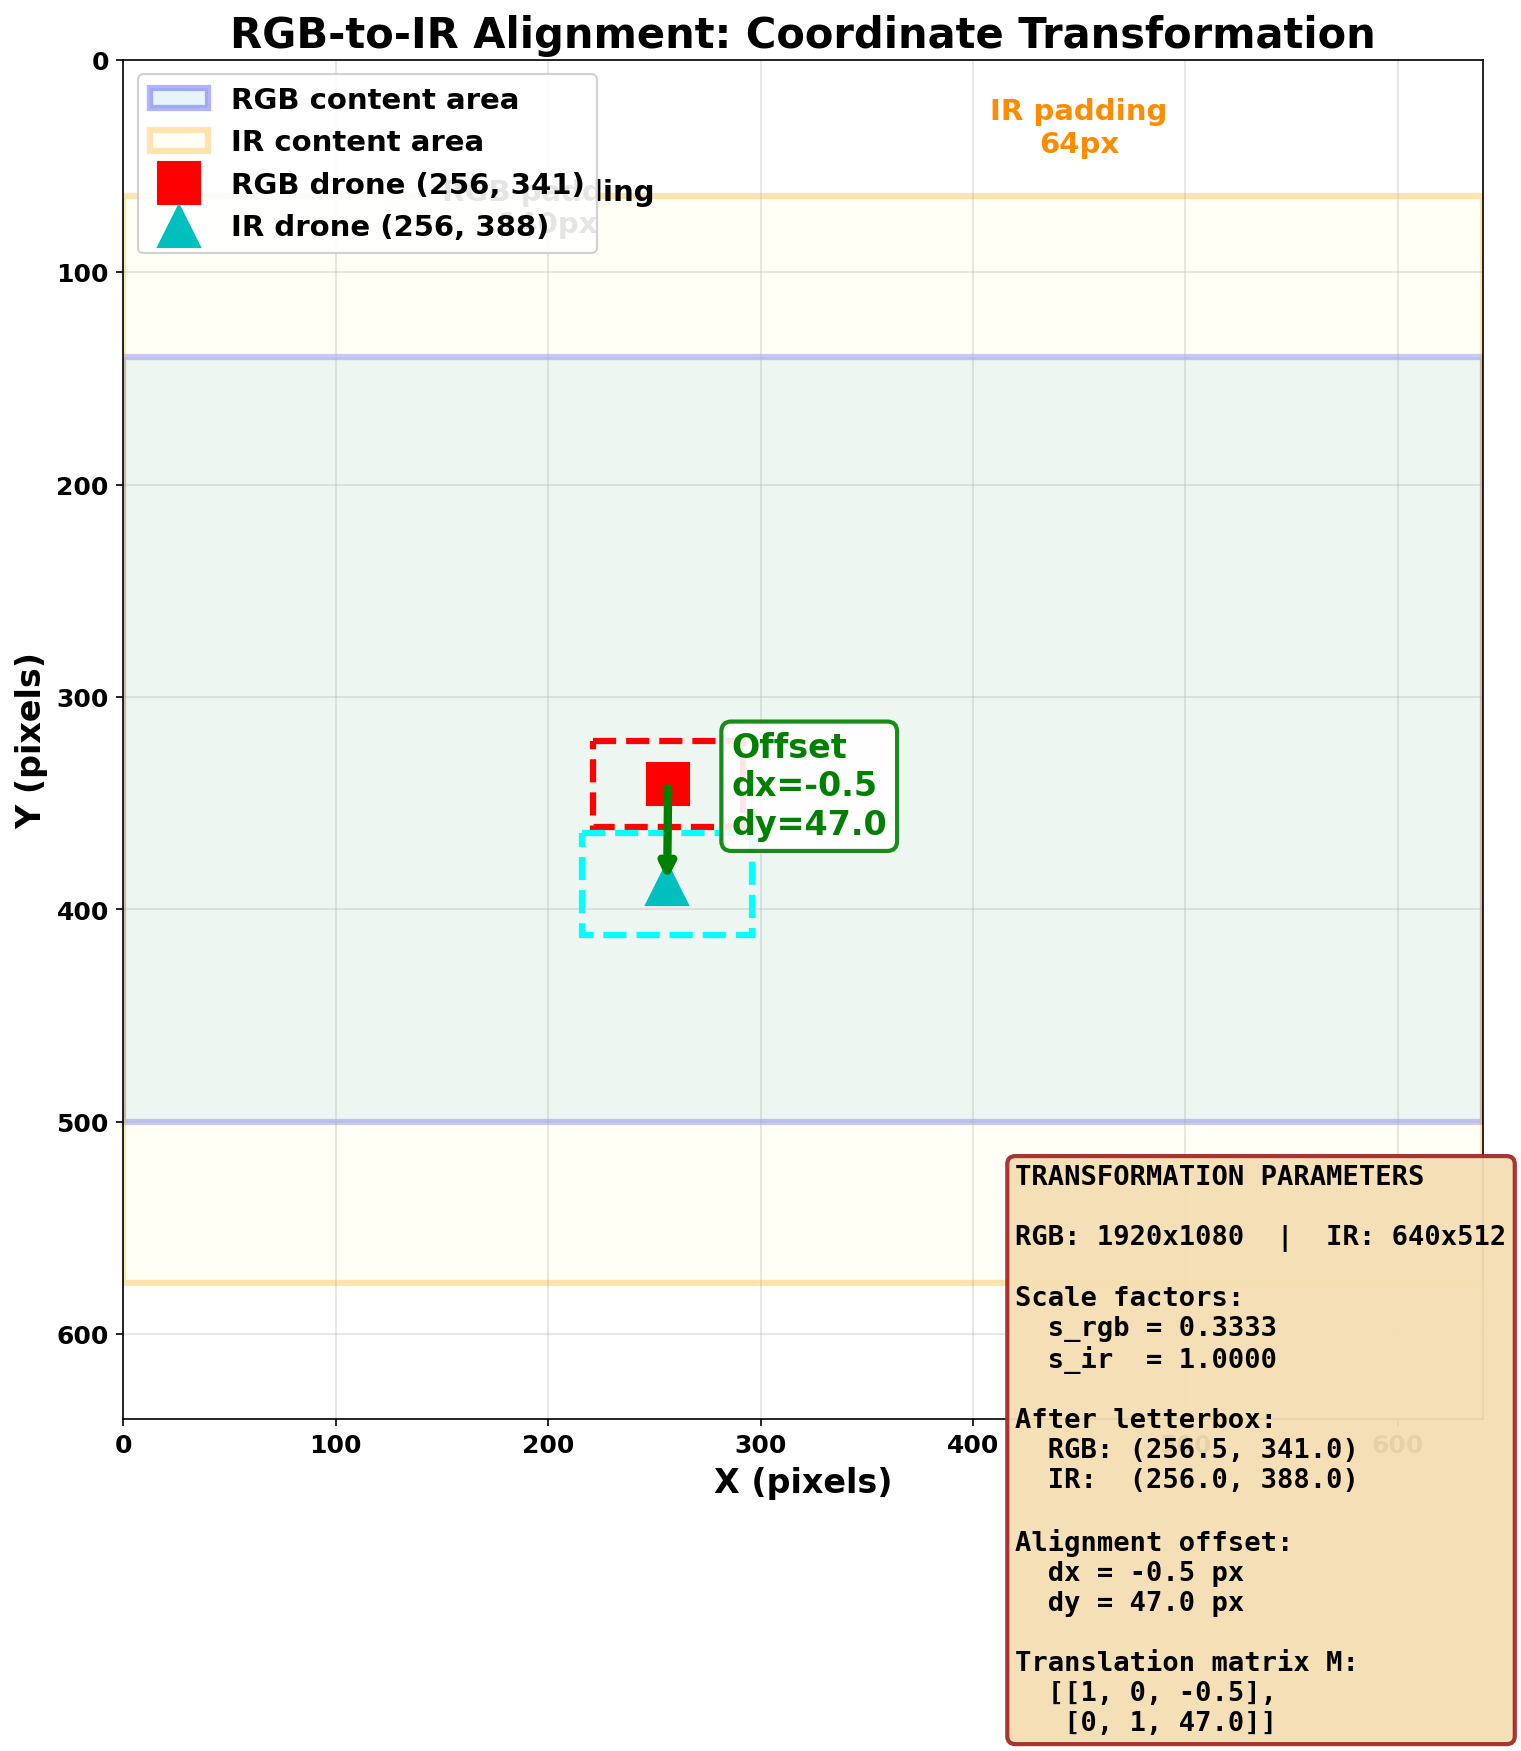
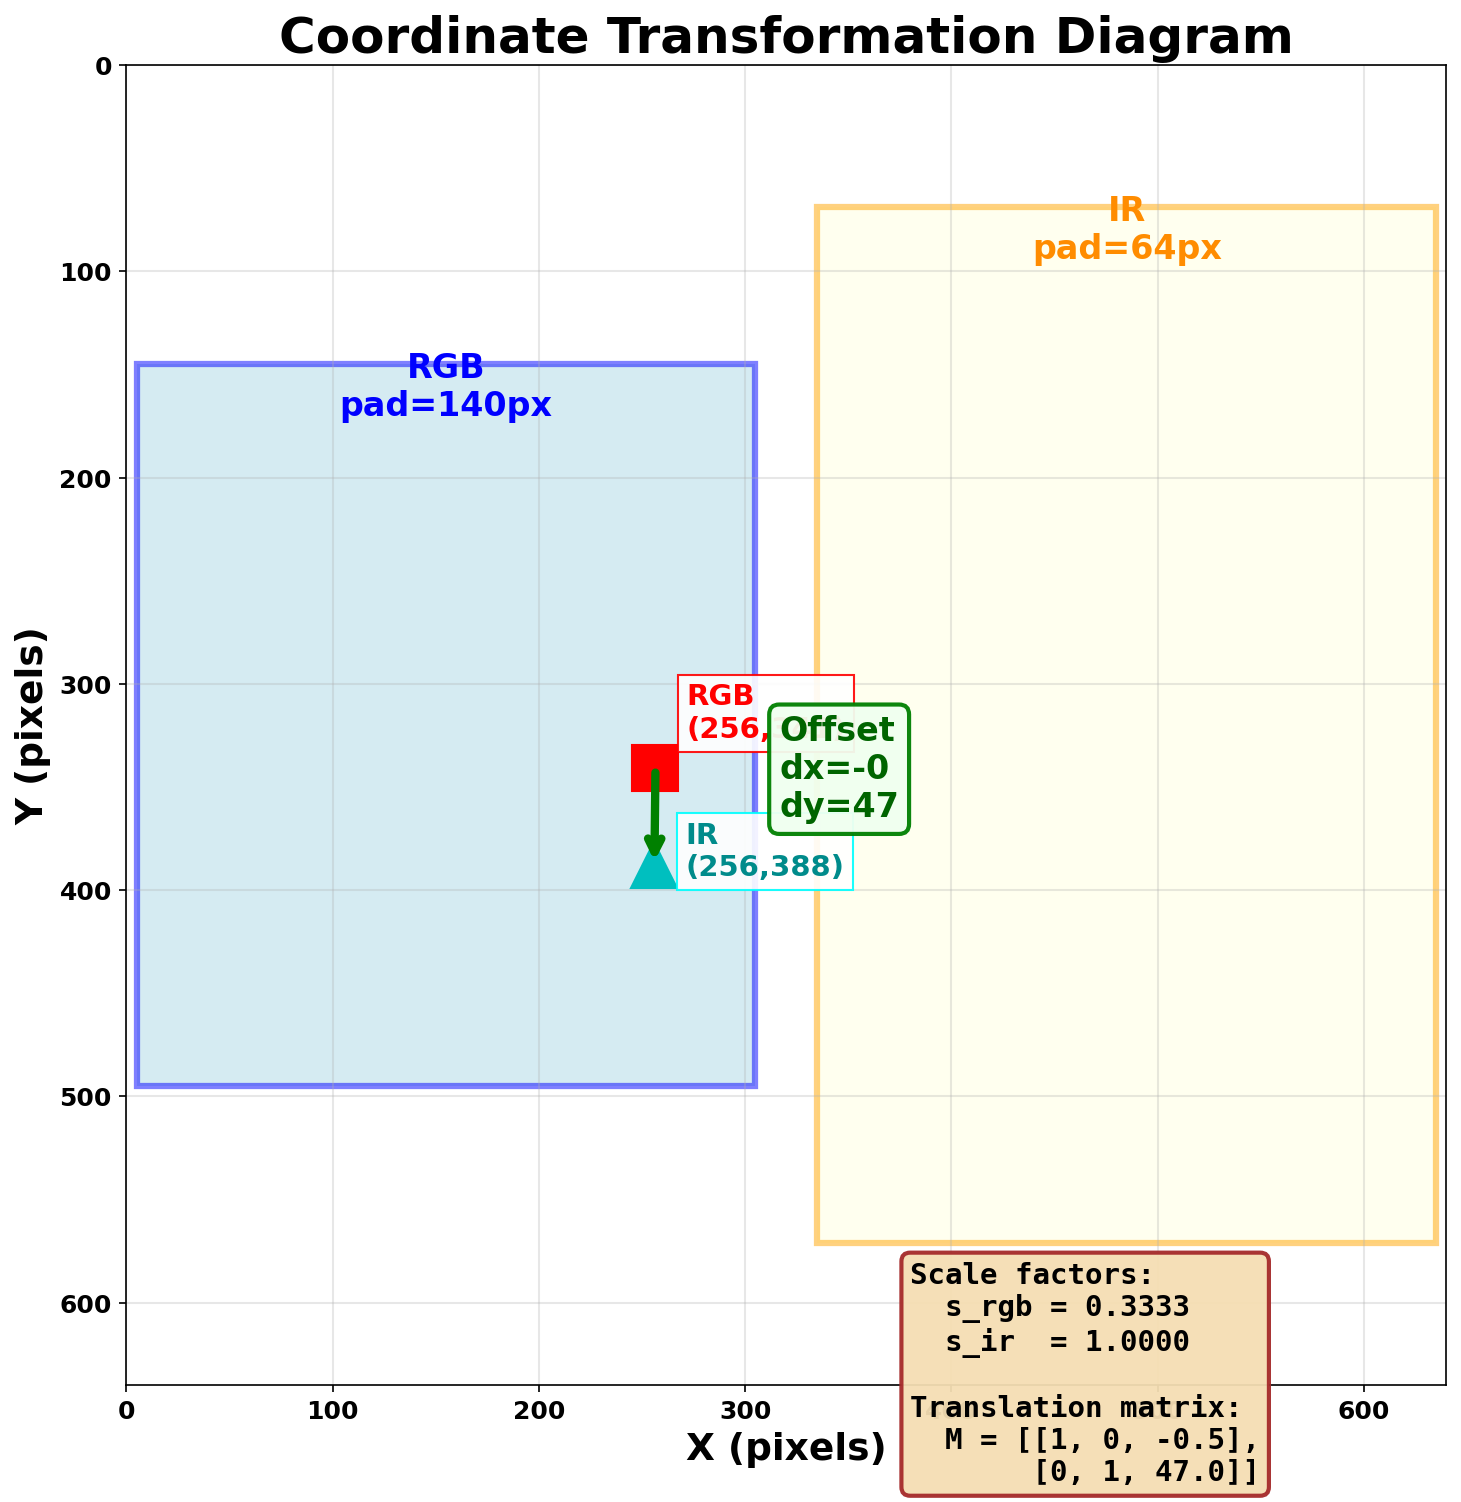
Fix text overlaps, separate before/after images, larger fonts

diff --git a/PREPROCESSING_METHODOLOGY.md b/PREPROCESSING_METHODOLOGY.md
@@ -77,38 +77,21 @@ After translation, the RGB drone position matches the IR position exactly, enabl
 
 ## 4. Visual Comparison
 
-### 4.1 Before vs After Alignment
+### 4.1 Before: Standard Letterbox (Misaligned)
 
-![Before/After Alignment](docs/preprocessing_figures/alignment_before_after.png)
+![Before Alignment](docs/preprocessing_figures/alignment_BEFORE.png)
 
-### 4.2 Misalignment Overlay
+### 4.2 After: RGB-to-IR Alignment (Unified)
+
+![After Alignment](docs/preprocessing_figures/alignment_AFTER.png)
+
+### 4.3 Misalignment Overlay
 
 ![Alignment Overlay](docs/preprocessing_figures/alignment_overlay.png)
 
-### 4.3 Coordinate Transformation
+### 4.4 Coordinate Transformation
 
 ![Math Diagram](docs/preprocessing_figures/alignment_math_diagram.png)
-
-### 4.4 Sample Visualizations
-
-**Sample 1:**
-
-![Alignment Visualization Sample 1](docs/preprocessing_figures/alignment_sample_1_20190925_101846_1_1_0.png)
-
-**Sample 2:**
-
-![Alignment Visualization Sample 2](docs/preprocessing_figures/alignment_sample_2_20190925_101846_1_1_1.png)
-
-| Panel | Description |
-|-------|-------------|
-| Row 1, Left | Original RGB with ground truth |
-| Row 1, Middle-Left | Original IR with ground truth |
-| Row 1, Middle-Right | RGB after letterbox (red marker) |
-| Row 1, Right | IR after letterbox (cyan marker) |
-| Row 2, Left | Misalignment overlay (~47px offset) |
-| Row 2, Middle | RGB after alignment (green marker) |
-| Row 2, Middle-Right | IR resized (green marker) |
-| Row 2, Right | Transformation details |
 
 ### 4.5 Preprocessed Dataset
 
